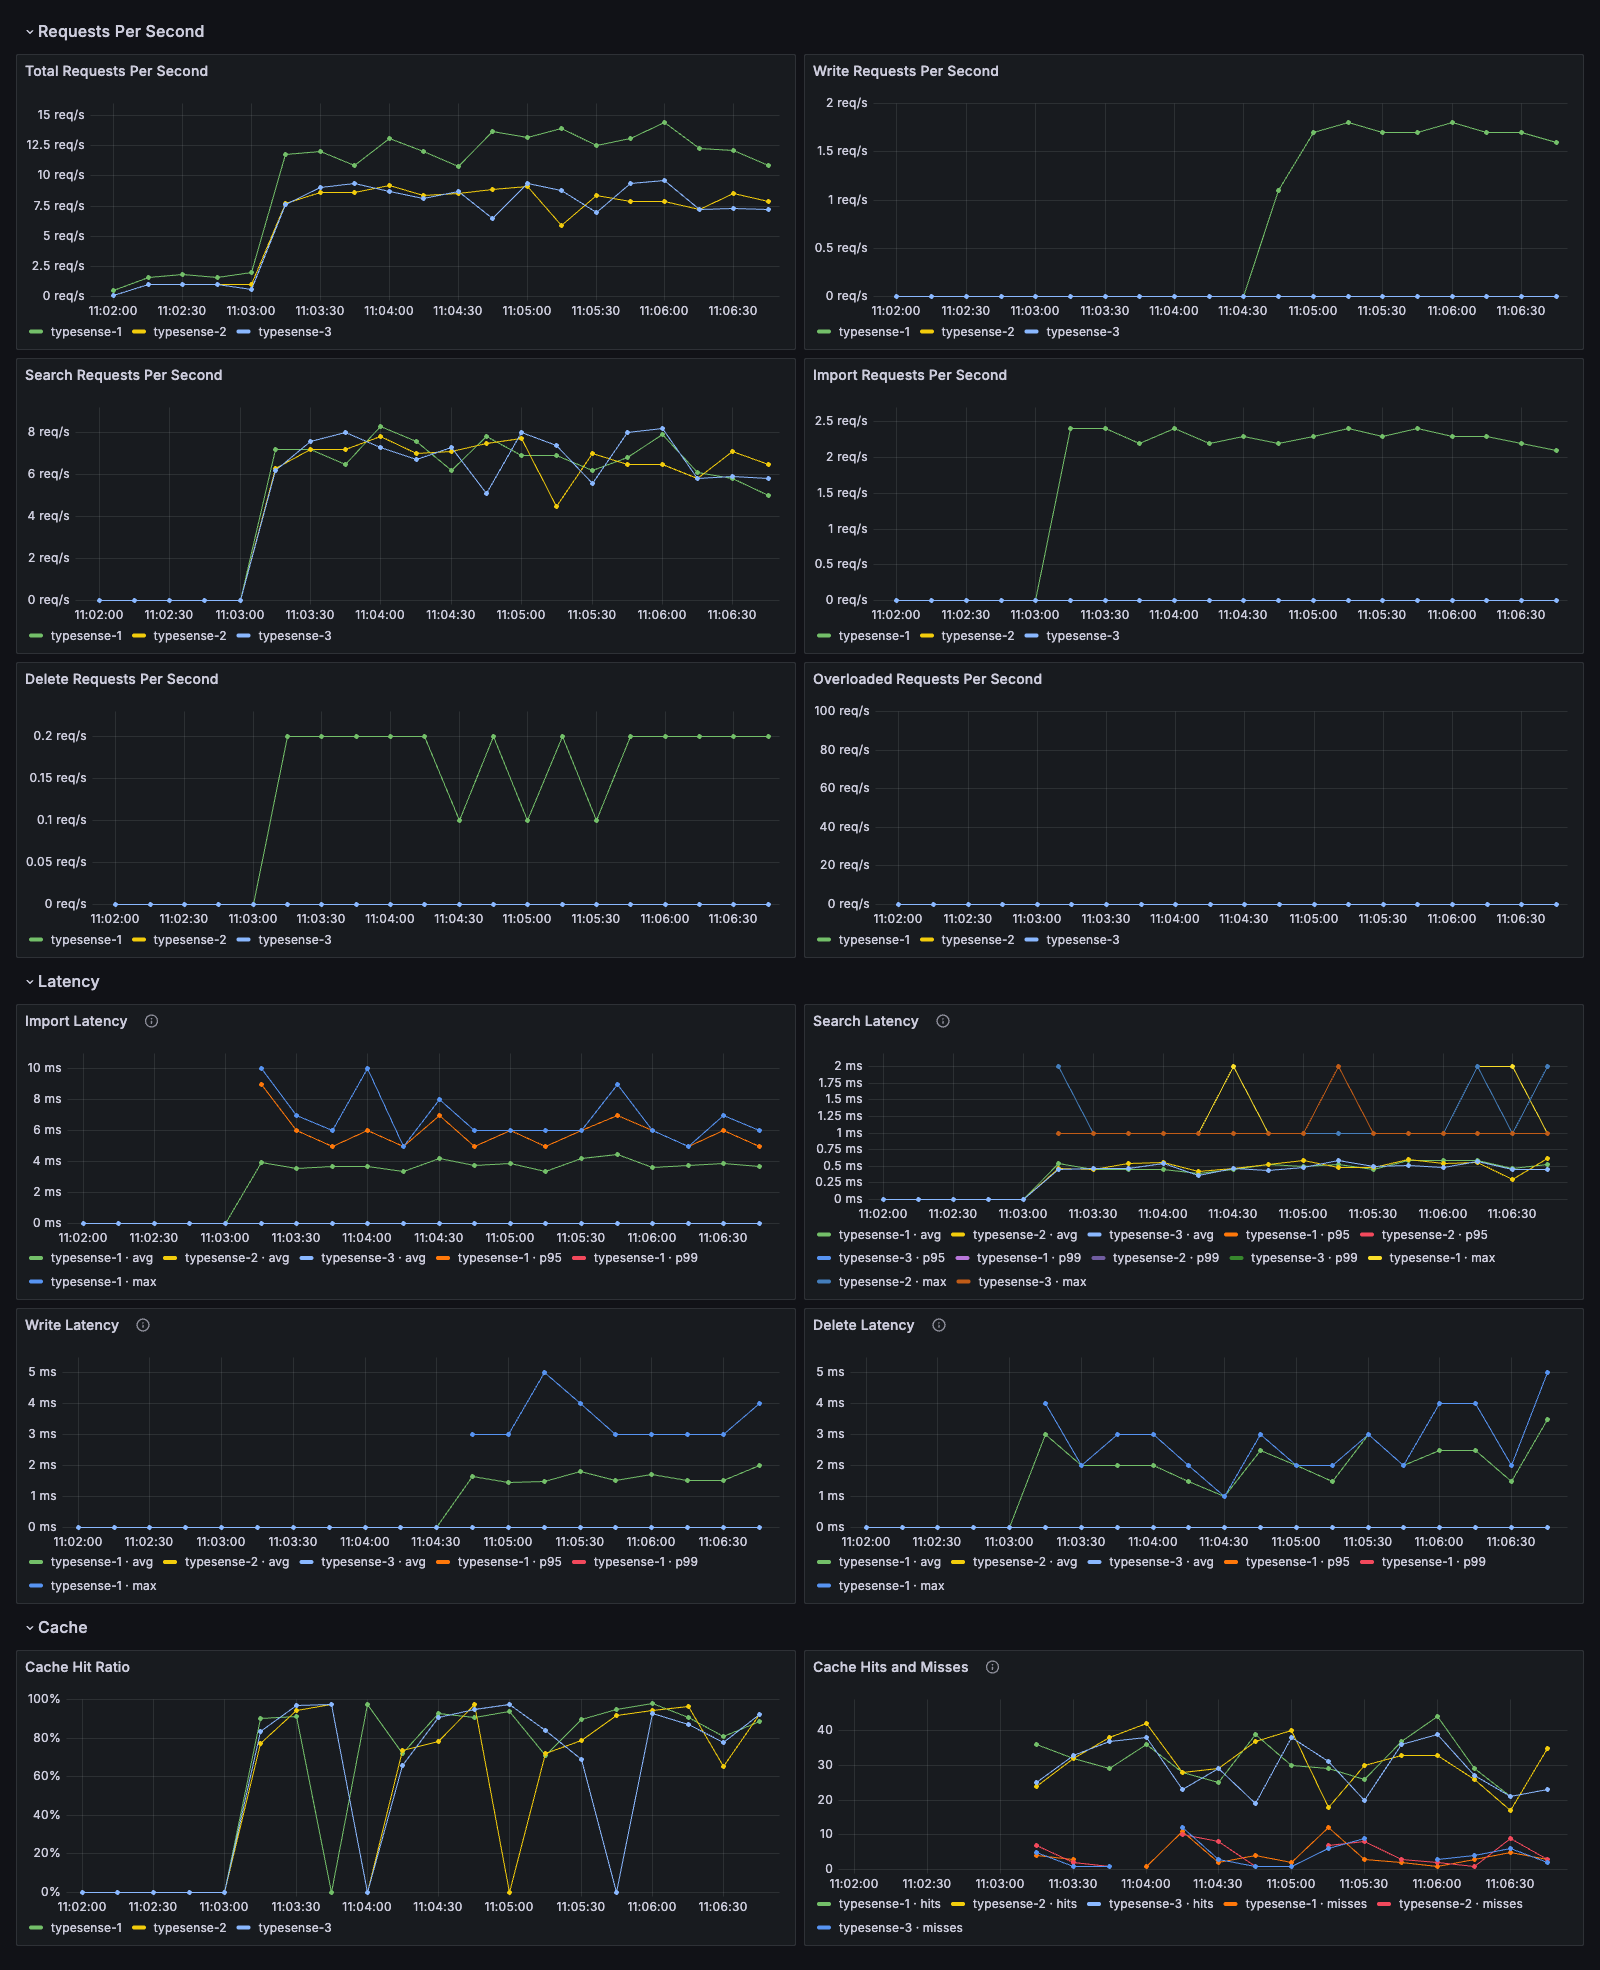
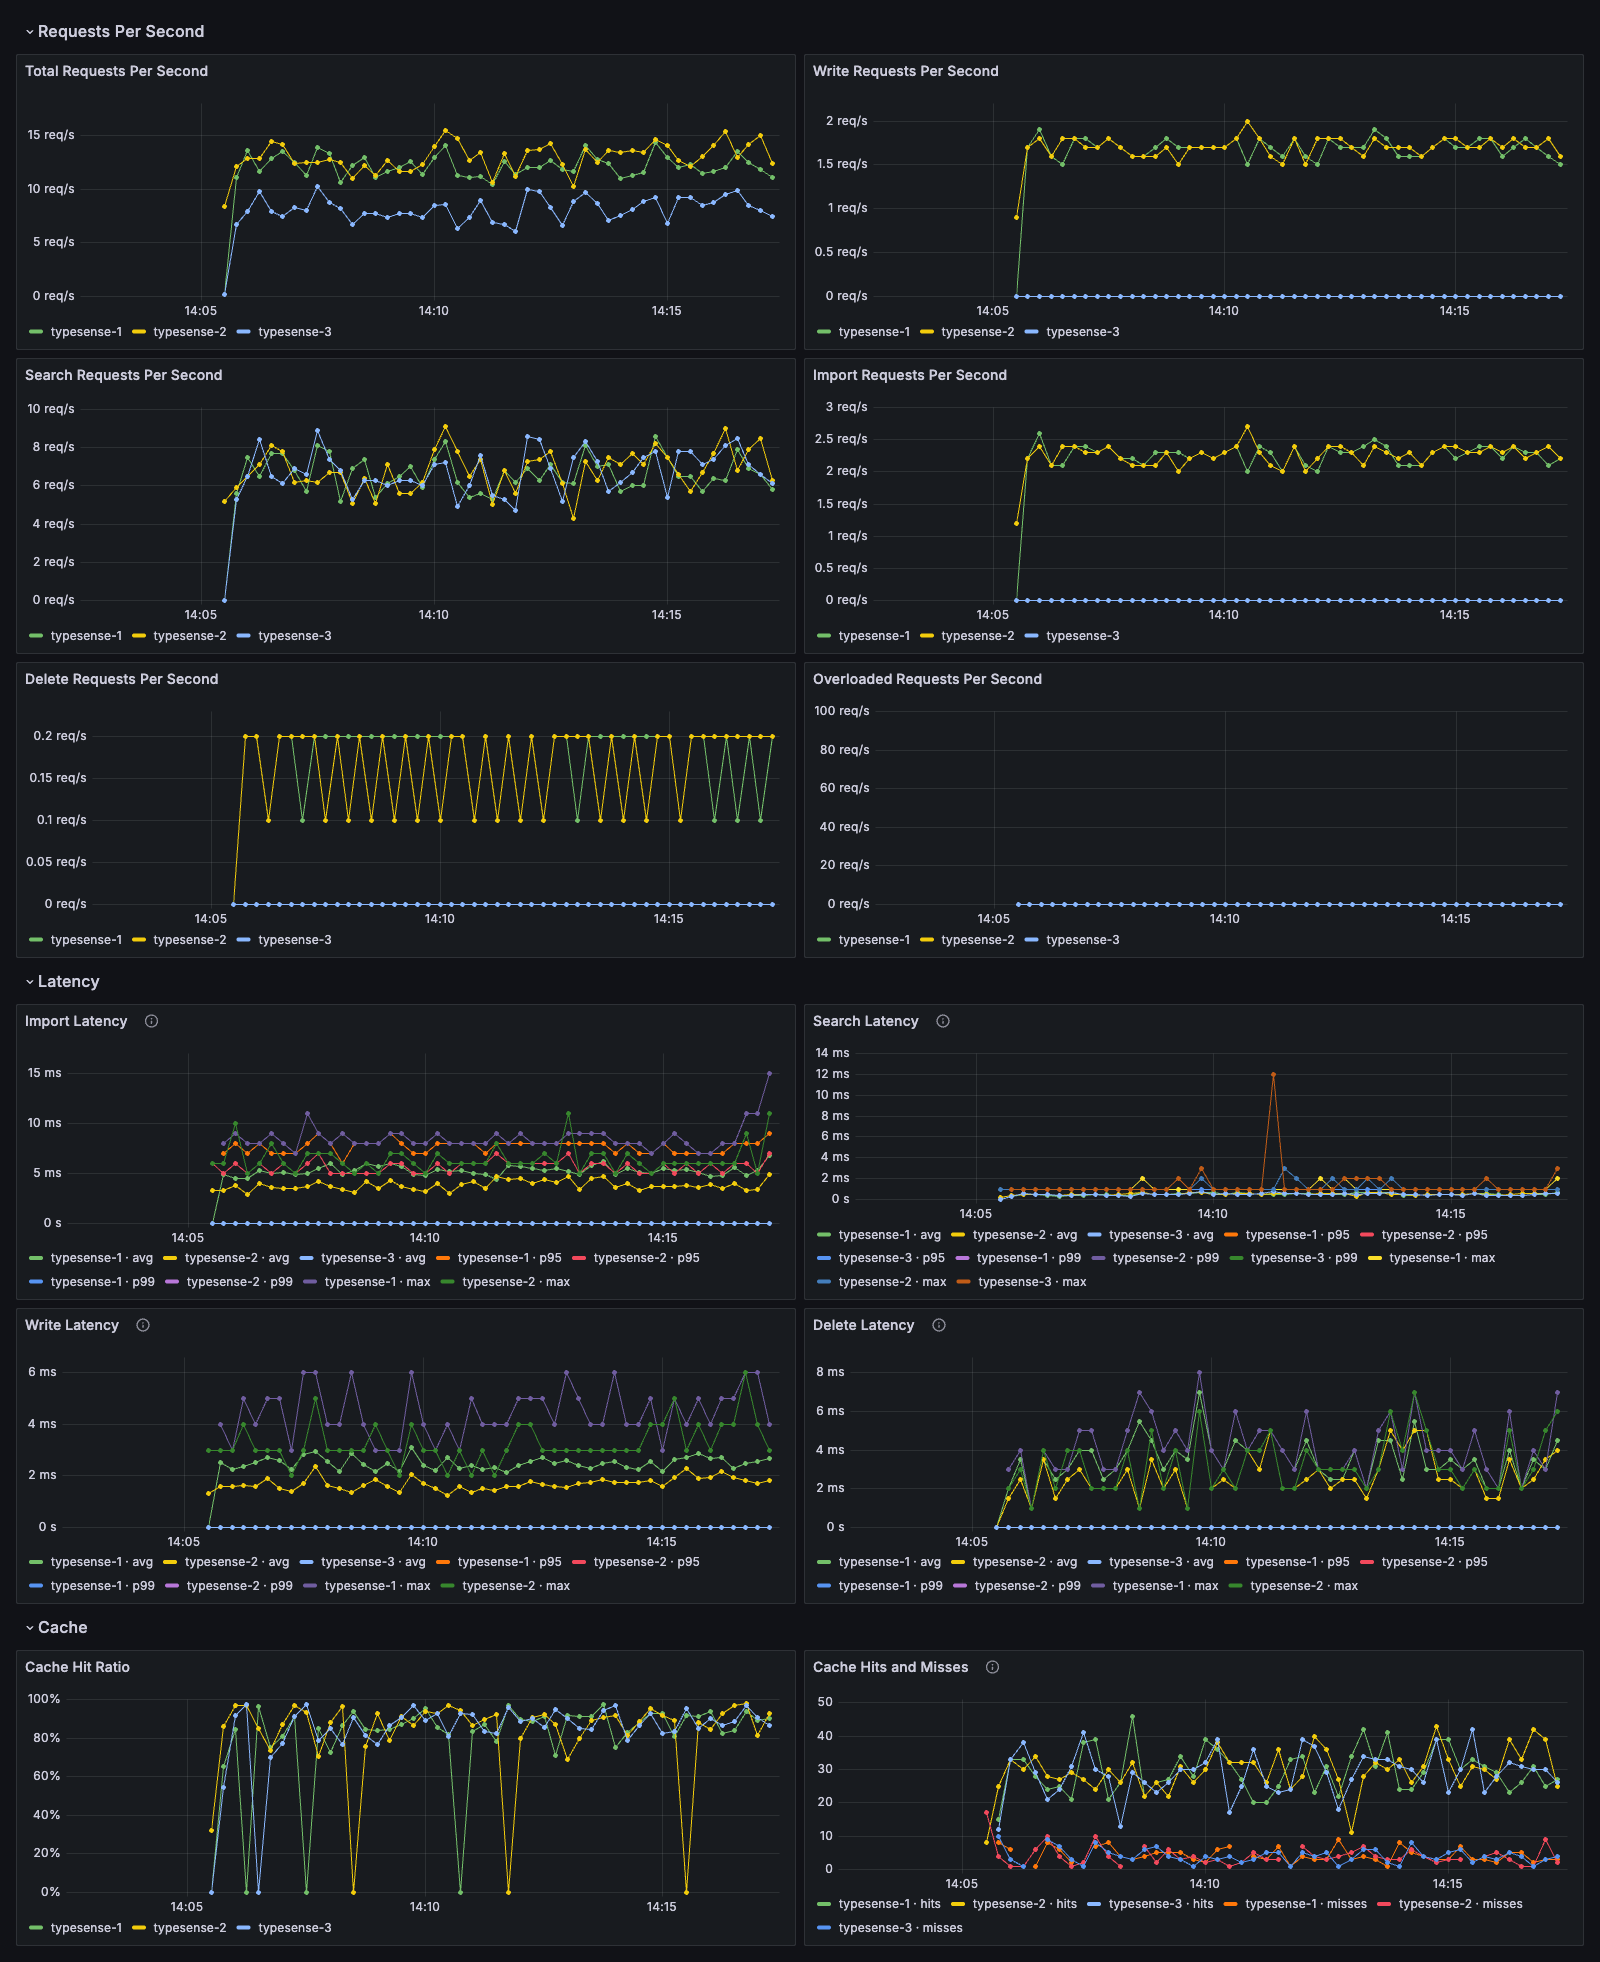
Ship legacy-name recording rules as a tested file; refresh screenshots and test docs
- deploy/prometheus/legacy-names.rules.yml (22 rules) with promtool rule tests
- CI job 'rules': promtool check rules + promtool test rules
- Migration guide links the file instead of embedding a copy
- Dashboard screenshots retaken on the 1.0 dashboards
- docs/testing.md: bug-injection figures re-measured on the 1.0.0 suite

diff --git a/docs/migrating-to-1.0.md b/docs/migrating-to-1.0.md
@@ -139,103 +139,28 @@ If something you can't change still needs the 0.4 names (an external dashboard, 
 
 Load it **only while the exporters run with `v1`**. With `both` or `legacy` the exporters already emit these series, and the recorded copies would collide with them.
 
+The rules ship as [`deploy/prometheus/legacy-names.rules.yml`](../deploy/prometheus/legacy-names.rules.yml) (22 rules). CI checks them with `promtool` and runs the rule tests in [`legacy-names.test.yml`](../deploy/prometheus/legacy-names.test.yml). For example, the search p95 rule reads:
+
 ```yaml
-# Rebuilds the most common 0.4 Typesense series from the 1.0 names.
-# Load it only while the exporters run with TYPESENSE_METRIC_NAMES=v1:
-# with `both` or `legacy` the exporters already emit these series.
-groups:
-  - name: typesense-legacy-names
-    rules:
-      # /stats.json, per operation: typesense_stats{key="<op>_..."}
-      - record: typesense_stats
-        expr: |
-          max without (operation, quantile) (
-            label_replace(typesense_requests_per_second, "key", "${1}_requests_per_second", "operation", "(.+)")
-            or label_replace(typesense_request_latency_avg_seconds * 1000, "key", "${1}_latency_ms", "operation", "(.+)")
-            or label_replace(typesense_request_latency_seconds{quantile="0.7"} * 1000, "key", "${1}_70Percentile_latency_ms", "operation", "(.+)")
-            or label_replace(typesense_request_latency_seconds{quantile="0.95"} * 1000, "key", "${1}_95Percentile_latency_ms", "operation", "(.+)")
-            or label_replace(typesense_request_latency_seconds{quantile="0.99"} * 1000, "key", "${1}_99Percentile_latency_ms", "operation", "(.+)")
-            or label_replace(typesense_request_latency_seconds{quantile="0"} * 1000, "key", "${1}_min_latency_ms", "operation", "(.+)")
-            or label_replace(typesense_request_latency_seconds{quantile="1"} * 1000, "key", "${1}_max_latency_ms", "operation", "(.+)")
-          )
-      - record: typesense_stats
-        expr: typesense_all_requests_per_second
-        labels: {key: total_requests_per_second}
-      - record: typesense_stats
-        expr: typesense_overloaded_requests_per_second
-        labels: {key: overloaded_requests_per_second}
-      - record: typesense_stats
-        expr: typesense_pending_write_batches
-        labels: {key: pending_write_batches}
-      - record: typesense_stats
-        expr: typesense_cache_hits
-        labels: {key: cache_hit_count}
-      - record: typesense_stats
-        expr: typesense_cache_misses
-        labels: {key: cache_miss_count}
-      - record: typesense_stats
-        expr: typesense_cache_hit_ratio
-        labels: {key: cache_hit_ratio}
-
-      # /stats.json, per route and per collection
-      - record: typesense_stats_latency_ms
-        expr: max without (route) (label_replace(typesense_route_latency_seconds * 1000, "key", "$1", "route", "(.*)"))
-      - record: typesense_stats_requests_per_second
-        expr: max without (route) (label_replace(typesense_route_requests_per_second, "key", "$1", "route", "(.*)"))
-      - record: typesense_stats_latency_ms_by_collection
-        expr: max without (collection) (label_replace(typesense_collection_latency_seconds * 1000, "collection_name", "$1", "collection", "(.*)"))
-      - record: typesense_stats_requests_per_second_by_collection
-        expr: max without (collection) (label_replace(typesense_collection_requests_per_second, "collection_name", "$1", "collection", "(.*)"))
-
-      # /metrics.json: typesense_metrics{key="..."}
-      - record: typesense_metrics
-        expr: |
-          max without (core) (
-            label_replace(typesense_system_cpu_core_active_ratio * 100, "key", "system_cpu${1}_active_percentage", "core", "(.+)")
-            or label_replace(
-              {__name__=~"typesense_process_memory_(active|allocated|mapped|metadata|resident|retained)_bytes"},
-              "key", "typesense_memory_${1}_bytes", "__name__", "typesense_process_memory_(.+)_bytes"
-            )
-          )
-      - record: typesense_metrics
-        expr: typesense_system_cpu_active_ratio * 100
-        labels: {key: system_cpu_active_percentage}
-      - record: typesense_metrics
-        expr: typesense_system_memory_total_bytes
-        labels: {key: system_memory_total_bytes}
-      - record: typesense_metrics
-        expr: typesense_system_memory_used_bytes
-        labels: {key: system_memory_used_bytes}
-      - record: typesense_metrics
-        expr: typesense_system_swap_total_bytes
-        labels: {key: system_memory_total_swap_bytes}
-      - record: typesense_metrics
-        expr: typesense_system_swap_used_bytes
-        labels: {key: system_memory_used_swap_bytes}
-      - record: typesense_metrics
-        expr: typesense_system_disk_total_bytes
-        labels: {key: system_disk_total_bytes}
-      - record: typesense_metrics
-        expr: typesense_system_disk_used_bytes
-        labels: {key: system_disk_used_bytes}
-      - record: typesense_metrics
-        expr: typesense_system_network_received_bytes_total
-        labels: {key: system_network_received_bytes}
-      - record: typesense_metrics
-        expr: typesense_system_network_sent_bytes_total
-        labels: {key: system_network_sent_bytes}
-      - record: typesense_metrics
-        expr: typesense_process_memory_fragmentation_ratio
-        labels: {key: typesense_memory_fragmentation_ratio}
-
+- record: typesense_stats
+  expr: |
+    max without (operation, quantile) (
+      label_replace(typesense_request_latency_seconds{quantile="0.95"} * 1000, "key", "${1}_95Percentile_latency_ms", "operation", "(.+)")
+      or ...
+    )
 ```
 
-Save it as, for example, `typesense-legacy-names.yml`, add it to `rule_files` in `prometheus.yml`, and check it first:
+Copy the file next to your `prometheus.yml`, add it to `rule_files`, and check it first:
+
+```yaml
+rule_files:
+  - legacy-names.rules.yml
+```
 
 ```bash
-promtool check rules typesense-legacy-names.yml
+promtool check rules legacy-names.rules.yml
 # or, without a local Prometheus install:
-docker run --rm -v "$PWD":/r --entrypoint promtool prom/prometheus check rules /r/typesense-legacy-names.yml
+docker run --rm -v "$PWD":/r -w /r --entrypoint promtool prom/prometheus check rules legacy-names.rules.yml
 ```
 
 Notes:

diff --git a/docs/testing.md b/docs/testing.md
@@ -126,9 +126,9 @@ The exporter runs with the default `--metric-names=v1` unless a test says otherw
 | `both_names_emit_old_and_new_and_shared_families_once` | `--metric-names=both` | Both name sets; shared families (health, raft, info, documents, scrape health) once; every 0.4 series identical to `legacy` |
 | `v1_unknown_fields_fall_back_to_unmapped` | Fields with no 1.0 name in `/metrics.json` and `/stats.json` | `typesense_unmapped{source,key}` with the raw value; fields Typesense didn't send are absent |
 
-**Checking that the tests catch bugs.** The suite was checked by breaking the code on purpose:
-- Removing the API key header failed 5 tests.
-- Treating any `/health` response as healthy failed `health_ok_false_with_200_is_unhealthy`.
+**Checking that the tests catch bugs.** The suite was checked by breaking the code on purpose (re-measured for 1.0.0):
+- Removing the API key header failed 17 of the 24 integration tests.
+- Treating any `/health` response as healthy failed `health_ok_false_with_200_is_unhealthy`, and nothing else.
 
 ## End-to-end tests: `tests/e2e.rs`
 
@@ -185,6 +185,7 @@ If the local figure looks wrong (lines marked uncovered that are blank or commen
 | `lint` | `cargo fmt --check`, `cargo clippy --all-targets -- -D warnings` |
 | `audit` | `cargo audit -D warnings`: fails on any known vulnerability or warning in the dependency tree |
 | `test` | Unit and integration tests under `cargo llvm-cov` (90% minimum); uploads `lcov.info`; publishes the coverage badge on `main` |
+| `rules` | `promtool check rules` on the alert and recording rules, and `promtool test rules` on [`legacy-names.test.yml`](../deploy/prometheus/legacy-names.test.yml) |
 | `e2e` | `cargo nextest run --features e2e --test e2e --profile ci`; uploads a JUnit report; prints exporter logs on failure; always tears the stack down |
 
 Two more workflows check every pull request:

diff --git a/CHANGELOG.md b/CHANGELOG.md
@@ -6,6 +6,14 @@ All notable changes to this project are documented here. The format follows
 
 ## [Unreleased]
 
+### Added
+- [`deploy/prometheus/legacy-names.rules.yml`](deploy/prometheus/legacy-names.rules.yml): Prometheus recording rules that rebuild the 0.4 metric names from the 1.0 names, as a ready-to-load file (previously only inside the migration guide), with `promtool` rule tests.
+- CI job `rules`: `promtool check rules` on the alert and recording rules, and `promtool test rules` on the recording-rule tests.
+
+### Changed
+- Dashboard screenshots in the README show the 1.0 dashboards.
+- `docs/testing.md`: the bug-injection figures were re-measured on the 1.0.0 suite.
+
 ## [1.0.0] - 2026-11-16
 
 > **BREAKING: the metric names changed.** 1.0.0 exports the new metric names by default. Dashboards, alerts and queries that use `typesense_metrics{key=…}`, `typesense_stats{key=…}` or `typesense_stats_*` stop returning data after the upgrade. To keep them working, set `TYPESENSE_METRIC_NAMES=both` (old and new names together while you migrate) or `legacy` (old names only). See the [migration guide](https://github.com/imatefx/typesense-prometheus-exporter/blob/main/docs/migrating-to-1.0.md) for a before/after table of every query and ready-made recording rules.
